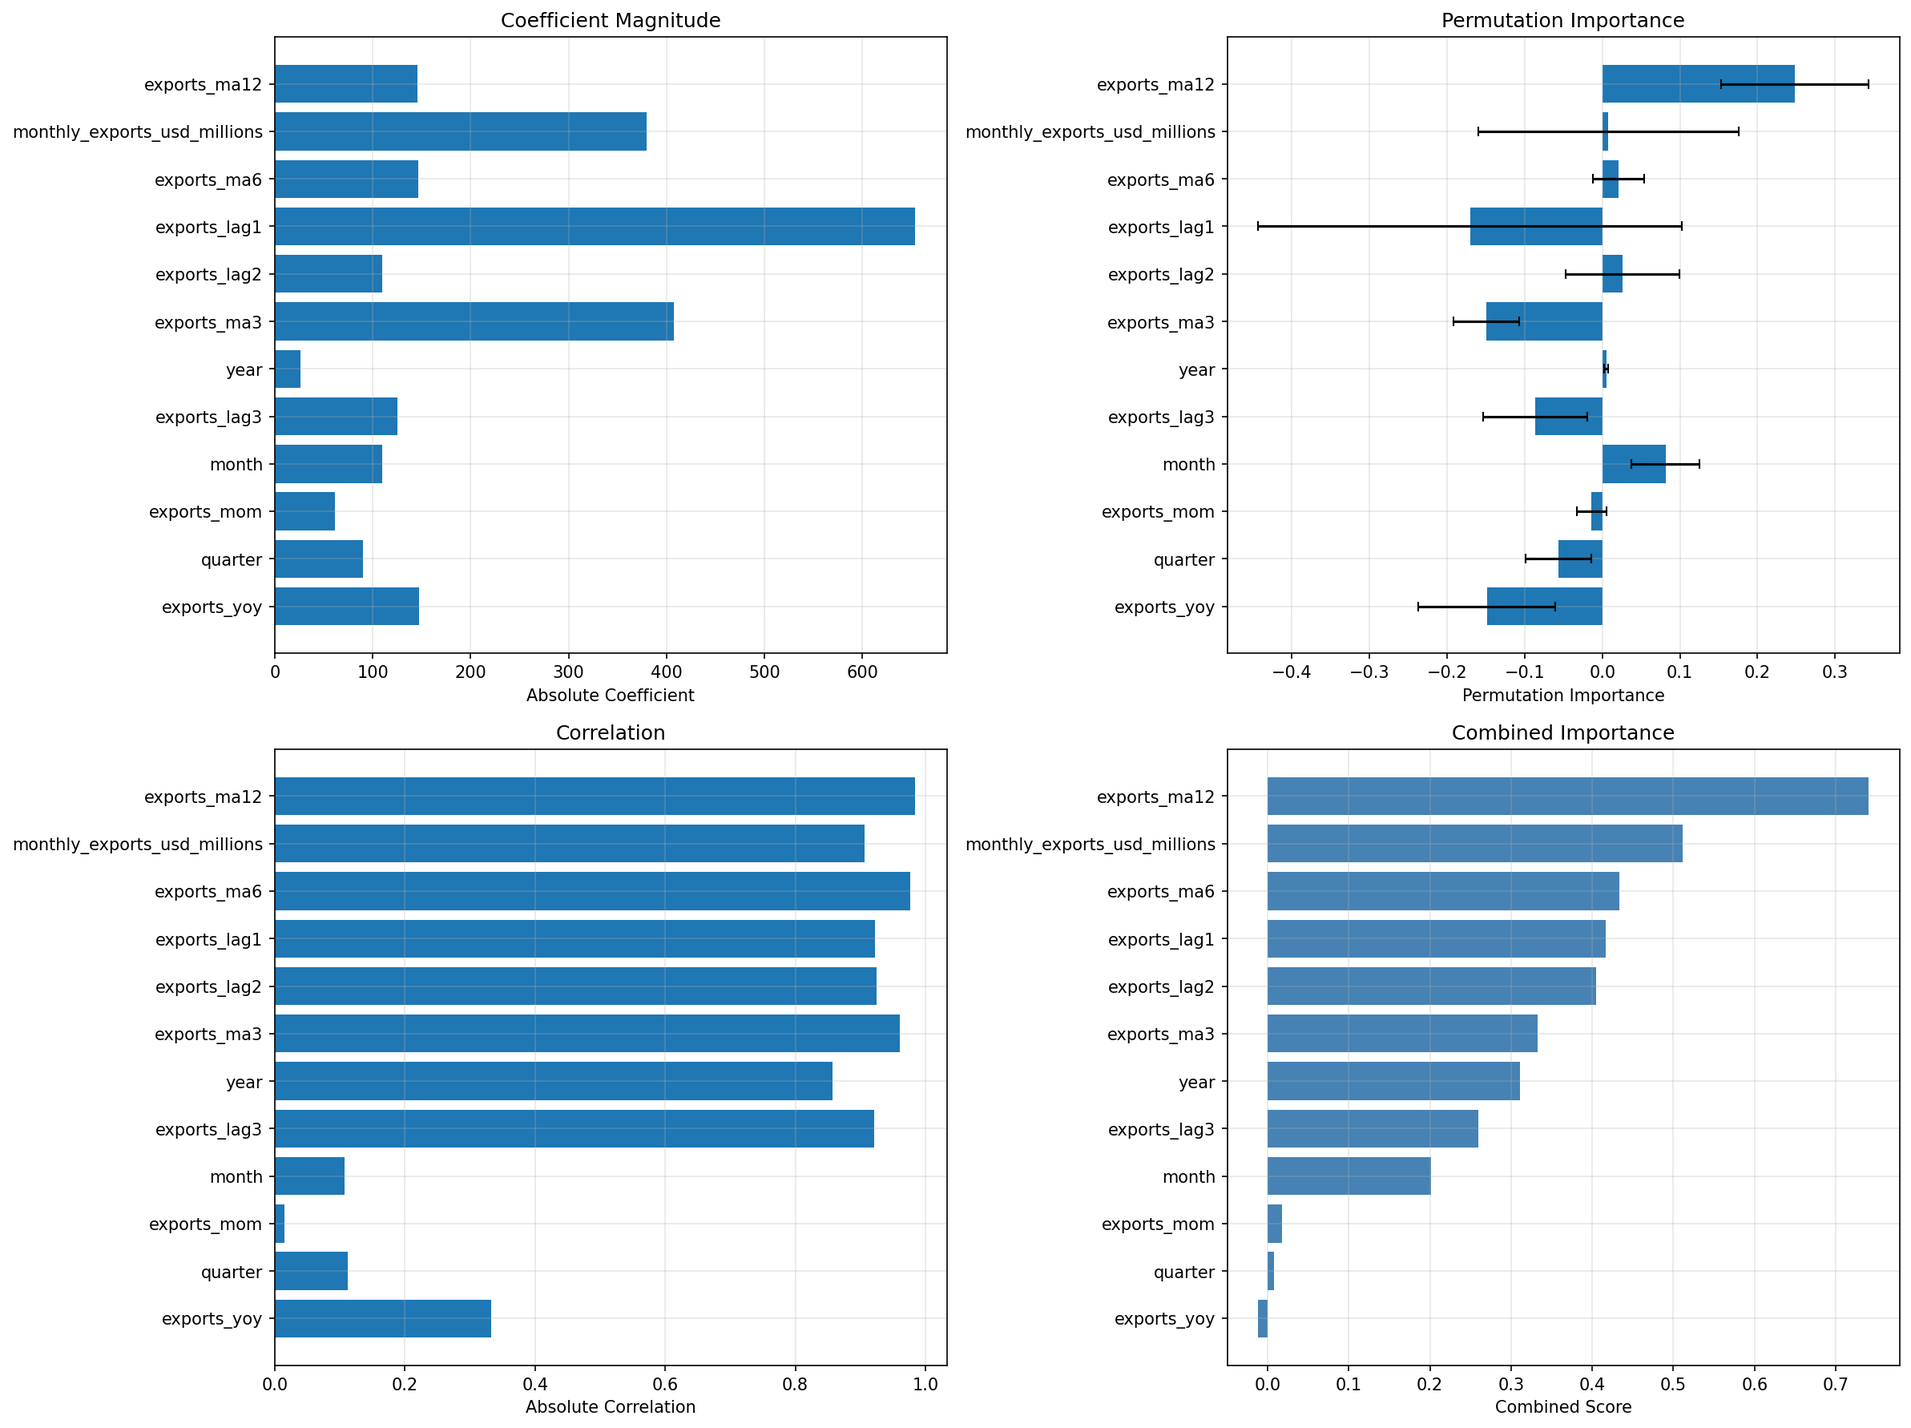
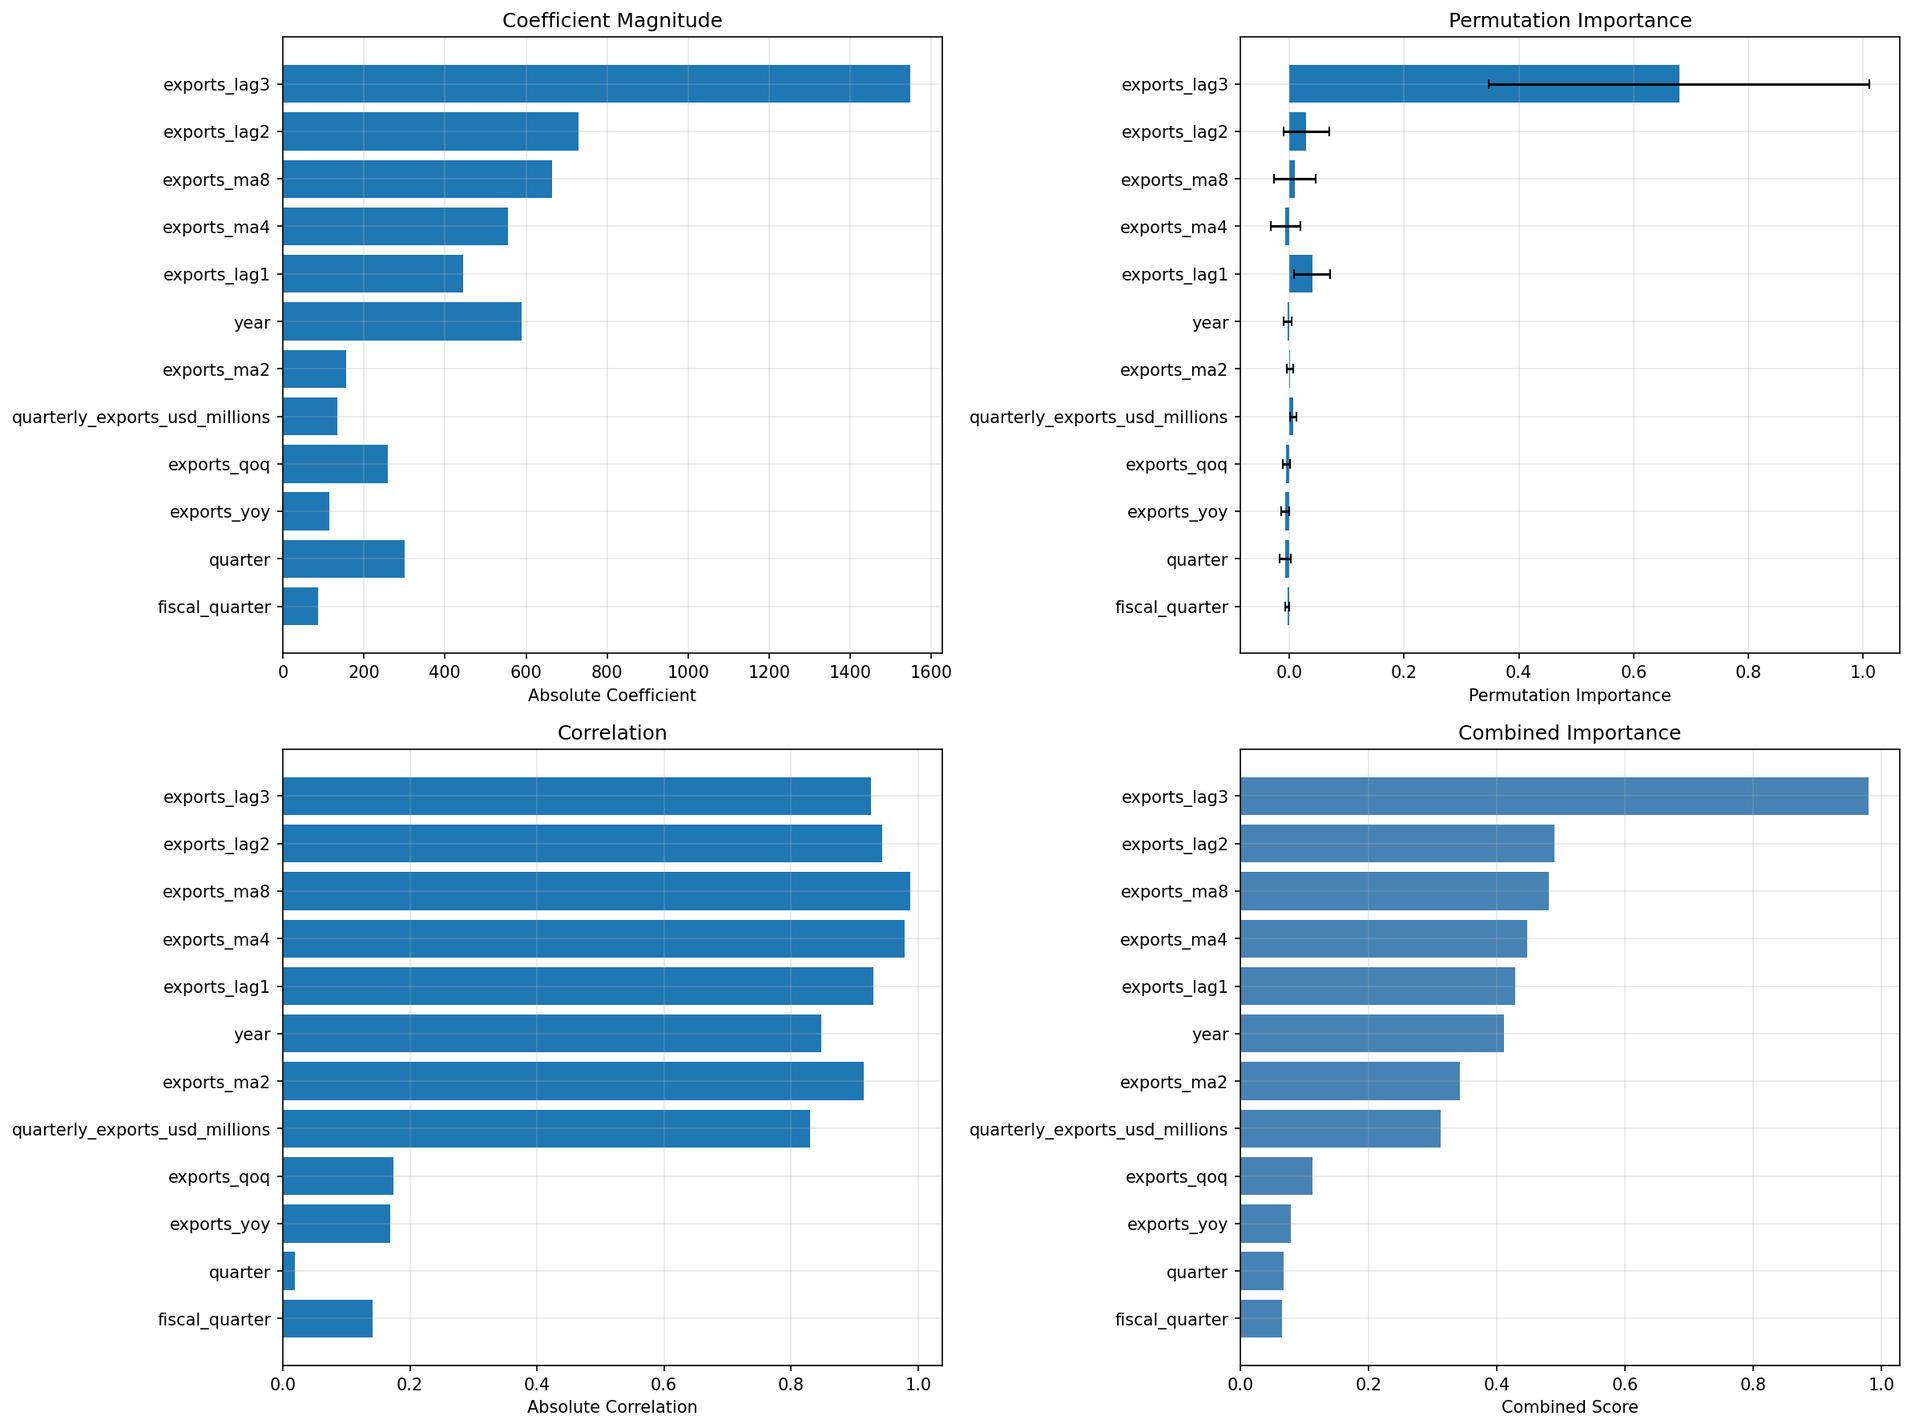
Change prediction target from monthly to quarterly Nvidia revenue
- Update process_nvidia_data.py to save quarterly data only (remove monthly conversion)
- Refactor predict_nvidia_revenue.py to predict quarterly revenue from monthly exports
- Add quarterly aggregation: sum monthly Taiwan exports into Nvidia fiscal quarters
- Update feature engineering for quarterly data (lag quarters, rolling averages over quarters)
- Update all variable names and messages to reflect quarterly prediction
- Independent variable: Taiwan monthly exports (aggregated to quarters)
- Dependent variable: Nvidia quarterly data center revenue

diff --git a/src/predict_nvidia_revenue.py b/src/predict_nvidia_revenue.py
@@ -1,4 +1,4 @@
-"""Predict Nvidia data center revenue using Taiwan exports data."""
+"""Predict Nvidia quarterly data center revenue using Taiwan monthly exports data."""
 
 import pandas as pd
 import numpy as np
@@ -27,39 +27,80 @@ def load_taiwan_exports():
     return df
 
 def fetch_nvidia_data():
-    """Load Nvidia data center revenue (monthly, converted from quarterly reports)."""
-    file_path = PROCESSED_DATA_DIR / "nvidia_data_center_revenue_monthly.csv"
+    """Load Nvidia data center revenue (quarterly)."""
+    file_path = PROCESSED_DATA_DIR / "nvidia_data_center_revenue_quarterly.csv"
     if not file_path.exists():
         print(f"Nvidia data not found: {file_path}. Run process_nvidia_data.py first.")
         return None
     df = pd.read_csv(file_path)
-    df['date'] = pd.to_datetime(df['date'])
-    return {'date': df['date'].values, 'data_center_revenue_millions': df['data_center_revenue_millions'].values}
+    df['quarter_end_date'] = pd.to_datetime(df['quarter_end_date'])
+    return df
 
-def create_features(df):
-    """Create time series features: lags, rolling averages, growth rates, and time indicators."""
-    df = df.copy().sort_values('date').reset_index(drop=True)
+def get_nvidia_quarter_for_month(date):
+    """Map a calendar month to Nvidia fiscal quarter end date.
     
-    # Lag features (previous months)
-    df['exports_lag1'] = df['monthly_exports_usd_millions'].shift(1)
-    df['exports_lag2'] = df['monthly_exports_usd_millions'].shift(2)
-    df['exports_lag3'] = df['monthly_exports_usd_millions'].shift(3)
+    Nvidia fiscal quarters:
+    - Q1: Feb, Mar, Apr -> ends in April
+    - Q2: May, Jun, Jul -> ends in July
+    - Q3: Aug, Sep, Oct -> ends in October
+    - Q4: Nov, Dec, Jan -> ends in January (next year)
+    """
+    month = date.month
+    year = date.year
     
-    # Rolling averages
-    df['exports_ma3'] = df['monthly_exports_usd_millions'].rolling(window=3).mean()
-    df['exports_ma6'] = df['monthly_exports_usd_millions'].rolling(window=6).mean()
-    df['exports_ma12'] = df['monthly_exports_usd_millions'].rolling(window=12).mean()
+    if month in [2, 3, 4]:
+        return pd.Timestamp(year=year, month=4, day=1)  # Q1 ends in Apr
+    elif month in [5, 6, 7]:
+        return pd.Timestamp(year=year, month=7, day=1)  # Q2 ends in Jul
+    elif month in [8, 9, 10]:
+        return pd.Timestamp(year=year, month=10, day=1)  # Q3 ends in Oct
+    elif month in [11, 12]:
+        return pd.Timestamp(year=year, month=1, day=1)  # Q4 ends in Jan (same fiscal year)
+    else:  # month == 1
+        return pd.Timestamp(year=year, month=1, day=1)  # Q4 ends in Jan (current year)
+
+def aggregate_to_quarters(taiwan_df):
+    """Aggregate monthly Taiwan exports to Nvidia fiscal quarters."""
+    taiwan_df = taiwan_df.copy()
     
-    # Growth rates
-    df['exports_yoy'] = df['monthly_exports_usd_millions'].pct_change(periods=12)
-    df['exports_mom'] = df['monthly_exports_usd_millions'].pct_change(periods=1)
+    # Map each month to its Nvidia fiscal quarter end date
+    taiwan_df['quarter_end_date'] = taiwan_df['date'].apply(get_nvidia_quarter_for_month)
+    
+    # Aggregate: sum monthly exports for each quarter
+    quarterly_exports = taiwan_df.groupby('quarter_end_date').agg({
+        'monthly_exports_usd_millions': 'sum',
+        'date': 'count'  # Count months per quarter (should be 3)
+    }).reset_index()
+    
+    quarterly_exports.columns = ['quarter_end_date', 'quarterly_exports_usd_millions', 'month_count']
+    
+    # Create features from quarterly aggregated data
+    quarterly_exports = quarterly_exports.sort_values('quarter_end_date').reset_index(drop=True)
+    
+    # Lag features (previous quarters)
+    quarterly_exports['exports_lag1'] = quarterly_exports['quarterly_exports_usd_millions'].shift(1)
+    quarterly_exports['exports_lag2'] = quarterly_exports['quarterly_exports_usd_millions'].shift(2)
+    quarterly_exports['exports_lag3'] = quarterly_exports['quarterly_exports_usd_millions'].shift(3)
+    
+    # Rolling averages (over quarters)
+    quarterly_exports['exports_ma2'] = quarterly_exports['quarterly_exports_usd_millions'].rolling(window=2).mean()
+    quarterly_exports['exports_ma4'] = quarterly_exports['quarterly_exports_usd_millions'].rolling(window=4).mean()
+    quarterly_exports['exports_ma8'] = quarterly_exports['quarterly_exports_usd_millions'].rolling(window=8).mean()
+    
+    # Year-over-year growth (4 quarters ago)
+    quarterly_exports['exports_yoy'] = quarterly_exports['quarterly_exports_usd_millions'].pct_change(periods=4)
+    
+    # Quarter-over-quarter growth
+    quarterly_exports['exports_qoq'] = quarterly_exports['quarterly_exports_usd_millions'].pct_change(periods=1)
     
     # Time-based features
-    df['year'] = df['date'].dt.year
-    df['month'] = df['date'].dt.month
-    df['quarter'] = df['date'].dt.quarter
+    quarterly_exports['year'] = quarterly_exports['quarter_end_date'].dt.year
+    quarterly_exports['quarter'] = quarterly_exports['quarter_end_date'].dt.quarter
+    quarterly_exports['fiscal_quarter'] = quarterly_exports['quarter_end_date'].apply(
+        lambda x: {1: 4, 4: 1, 7: 2, 10: 3}[x.month]
+    )
     
-    return df
+    return quarterly_exports
 
 def train_model(X_train, y_train, X_test, y_test, use_cv=True):
     """Train Ridge regression model with cross-validation for optimal regularization."""
@@ -189,9 +230,9 @@ def plot_train_test_comparison(train_dates, y_train, y_train_pred, test_dates, y
     axes[0].plot(test_dates, y_test, 'o-', label='Test Actual', alpha=0.7, color='red')
     axes[0].plot(test_dates, y_test_pred, 'x-', label='Test Predicted', alpha=0.7, color='salmon')
     axes[0].axvline(x=test_dates[0], color='gray', linestyle='--', linewidth=2)
-    axes[0].set_xlabel('Date')
+    axes[0].set_xlabel('Quarter End Date')
     axes[0].set_ylabel('Revenue (Millions USD)')
-    axes[0].set_title('Train vs Test Predictions')
+    axes[0].set_title('Train vs Test Predictions (Quarterly)')
     axes[0].legend()
     axes[0].grid(True, alpha=0.3)
     axes[0].tick_params(axis='x', rotation=45)
@@ -220,69 +261,65 @@ def plot_train_test_comparison(train_dates, y_train, y_train_pred, test_dates, y
     print(f"Diagnostic plot saved to {filepath}")
 
 def main(use_post_surge_only=False, surge_threshold_date='2023-01-01'):
-    """Main prediction pipeline."""
-    print("Nvidia Data Center Revenue Prediction")
+    """Main prediction pipeline: predict quarterly Nvidia revenue from monthly Taiwan exports."""
+    print("Nvidia Quarterly Data Center Revenue Prediction")
     print("=" * 60)
     
-    # Load and prepare Taiwan exports data
+    # Load Taiwan monthly exports data
     taiwan_df = load_taiwan_exports()
     print(f"Loaded {len(taiwan_df)} months of Taiwan exports data")
     
-    taiwan_df = create_features(taiwan_df)
-    taiwan_df = taiwan_df.dropna().reset_index(drop=True)
-    
-    feature_cols = [
-        'monthly_exports_usd_millions', 'exports_lag1', 'exports_lag2', 'exports_lag3',
-        'exports_ma3', 'exports_ma6', 'exports_ma12', 'exports_yoy', 'exports_mom',
-        'year', 'month', 'quarter'
-    ]
-    available_features = [col for col in feature_cols if col in taiwan_df.columns]
-    
-    print(f"Created {len(available_features)} features")
-    
-    # Load Nvidia revenue data
-    nvidia_data = fetch_nvidia_data()
-    if nvidia_data is None:
+    # Load Nvidia quarterly revenue data
+    nvidia_df = fetch_nvidia_data()
+    if nvidia_df is None:
         print("Nvidia data not available. Run process_nvidia_data.py first.")
         return
     
-    nvidia_df = pd.DataFrame(nvidia_data)
-    nvidia_df['date'] = pd.to_datetime(nvidia_df['date'])
+    print(f"Loaded {len(nvidia_df)} quarters of Nvidia revenue data")
+    print(f"Nvidia date range: {nvidia_df['quarter_end_date'].min().date()} to {nvidia_df['quarter_end_date'].max().date()}")
     
-    # Filter Taiwan data to match Nvidia date range
-    first_nvidia_date = nvidia_df['date'].min()
-    last_nvidia_date = nvidia_df['date'].max()
+    # Aggregate monthly Taiwan exports to Nvidia fiscal quarters
+    print("\nAggregating monthly exports to quarterly...")
+    quarterly_exports = aggregate_to_quarters(taiwan_df)
+    quarterly_exports = quarterly_exports.dropna().reset_index(drop=True)
     
-    taiwan_df_filtered = taiwan_df[
-        (taiwan_df['date'] >= first_nvidia_date) & 
-        (taiwan_df['date'] <= last_nvidia_date)
-    ].copy()
+    print(f"Aggregated to {len(quarterly_exports)} quarters")
     
-    # Recreate features on filtered data (ensures proper lag calculations)
-    taiwan_df_filtered = create_features(taiwan_df_filtered)
-    taiwan_df_filtered = taiwan_df_filtered.dropna().reset_index(drop=True)
-    
-    # Merge datasets on date
-    merged_df = pd.merge(taiwan_df_filtered, nvidia_df, on='date', how='inner')
-    merged_df = merged_df.sort_values('date').reset_index(drop=True)
+    # Merge quarterly exports with Nvidia revenue on quarter end date
+    merged_df = pd.merge(
+        quarterly_exports,
+        nvidia_df[['quarter_end_date', 'quarterly_revenue_millions']],
+        on='quarter_end_date',
+        how='inner'
+    )
+    merged_df = merged_df.sort_values('quarter_end_date').reset_index(drop=True)
     
     if len(merged_df) == 0:
-        print("No overlapping dates found")
+        print("No overlapping quarters found")
         return
     
-    print(f"Merged dataset: {len(merged_df)} months")
-    print(f"Date range: {merged_df['date'].min().date()} to {merged_df['date'].max().date()}")
+    print(f"Merged dataset: {len(merged_df)} quarters")
+    print(f"Date range: {merged_df['quarter_end_date'].min().date()} to {merged_df['quarter_end_date'].max().date()}")
     
     # Optional: filter to post-surge period only (2023+)
     surge_threshold = pd.Timestamp(surge_threshold_date)
     if use_post_surge_only:
-        merged_df = merged_df[merged_df['date'] >= surge_threshold].reset_index(drop=True)
-        print(f"Filtered to post-surge: {len(merged_df)} months")
+        merged_df = merged_df[merged_df['quarter_end_date'] >= surge_threshold].reset_index(drop=True)
+        print(f"Filtered to post-surge: {len(merged_df)} quarters")
     
     # Prepare features and target
-    y = merged_df['data_center_revenue_millions'].values
+    feature_cols = [
+        'quarterly_exports_usd_millions', 'exports_lag1', 'exports_lag2', 'exports_lag3',
+        'exports_ma2', 'exports_ma4', 'exports_ma8', 'exports_yoy', 'exports_qoq',
+        'year', 'quarter', 'fiscal_quarter'
+    ]
+    available_features = [col for col in feature_cols if col in merged_df.columns]
+    
+    y = merged_df['quarterly_revenue_millions'].values
     X_merged = merged_df[available_features].fillna(0)
-    dates = merged_df['date'].values
+    dates = merged_df['quarter_end_date'].values
+    
+    print(f"\nUsing {len(available_features)} features: {', '.join(available_features)}")
     
     # Time-based split: 80% train, 20% test (chronological)
     split_idx = int(len(merged_df) * 0.8)
@@ -293,8 +330,8 @@ def main(use_post_surge_only=False, surge_threshold_date='2023-01-01'):
     train_dates = dates[:split_idx]
     test_dates = dates[split_idx:]
     
-    print(f"\nTrain: {len(X_train)} samples ({train_dates[0]} to {train_dates[-1]})")
-    print(f"Test: {len(X_test)} samples ({test_dates[0]} to {test_dates[-1]})")
+    print(f"\nTrain: {len(X_train)} quarters ({train_dates[0]} to {train_dates[-1]})")
+    print(f"Test: {len(X_test)} quarters ({test_dates[0]} to {test_dates[-1]})")
     
     # Train model
     print("\nTraining model...")
@@ -355,15 +392,15 @@ def main(use_post_surge_only=False, surge_threshold_date='2023-01-01'):
     }, model_path)
     print(f"\nModel saved to: {model_path}")
     
-    # Generate predictions for recent months
-    recent_data = taiwan_df_filtered.tail(12)
-    X_recent = recent_data[available_features].fillna(0)
+    # Generate predictions for recent quarters
+    recent_quarters = quarterly_exports.tail(8)  # Last 8 quarters (2 years)
+    X_recent = recent_quarters[available_features].fillna(0)
     X_recent_scaled = metrics['scaler'].transform(X_recent)
     predictions = model.predict(X_recent_scaled)
     
     predictions_df = pd.DataFrame({
-        'date': recent_data['date'].values,
-        'taiwan_exports_millions': recent_data['monthly_exports_usd_millions'].values,
+        'quarter_end_date': recent_quarters['quarter_end_date'].values,
+        'quarterly_exports_millions': recent_quarters['quarterly_exports_usd_millions'].values,
         'predicted_nvidia_revenue_millions': predictions
     })
     

diff --git a/src/process_nvidia_data.py b/src/process_nvidia_data.py
@@ -1,4 +1,4 @@
-"""Process Nvidia quarterly data center revenue and convert to monthly data."""
+"""Process Nvidia quarterly data center revenue data."""
 
 import pandas as pd
 from pathlib import Path
@@ -16,38 +16,22 @@ def parse_value(value_str):
         num = float(value_str)
         return num * 1000 if num > 10 else num
 
-def get_quarter_months(date):
+def get_quarter_end_date(date):
+    """Convert report date to quarter end date based on Nvidia's fiscal calendar."""
     month = date.month
     
-    if month == 1:
-        months = [11, 12, 1]
-    elif month in [4, 5]:
-        months = [2, 3, 4]
-    elif month in [7, 8]:
-        months = [5, 6, 7]
-    elif month == 10:
-        months = [8, 9, 10]
+    # Nvidia fiscal quarters end in: Jan (Q4), Apr (Q1), Jul (Q2), Oct (Q3)
+    if month in [1, 2, 3]:
+        return pd.Timestamp(year=date.year, month=1, day=1)  # Q4 ends in Jan
+    elif month in [4, 5, 6]:
+        return pd.Timestamp(year=date.year, month=4, day=1)  # Q1 ends in Apr
+    elif month in [7, 8, 9]:
+        return pd.Timestamp(year=date.year, month=7, day=1)  # Q2 ends in Jul
     else:
-        if month <= 3:
-            months = [11, 12, 1]
-        elif month <= 6:
-            months = [2, 3, 4]
-        elif month <= 9:
-            months = [5, 6, 7]
-        else:
-            months = [8, 9, 10]
-    
-    quarter_dates = []
-    for m in months:
-        if m in [11, 12]:
-            year = date.year - 1
-        else:
-            year = date.year
-        quarter_dates.append(pd.Timestamp(year=year, month=m, day=1))
-    
-    return quarter_dates
+        return pd.Timestamp(year=date.year, month=10, day=1)  # Q3 ends in Oct
 
 def process_nvidia_quarterly_data():
+    """Process and save Nvidia quarterly revenue data."""
     quarterly_data = [
         ("October 26, 2025", "51.22B"),
         ("July 27, 2025", "41.10B"),
@@ -82,51 +66,38 @@ def process_nvidia_quarterly_data():
     
     for date_str, value_str in quarterly_data:
         date = pd.to_datetime(date_str)
-        quarter_key = (date.year, date.month)
+        quarter_end = get_quarter_end_date(date)
+        quarter_key = (quarter_end.year, quarter_end.month)
         
         if quarter_key in seen_quarters:
             continue
         seen_quarters.add(quarter_key)
         
         parsed_data.append({
-            'quarter_end_date': date,
+            'quarter_end_date': quarter_end,
             'quarterly_revenue_millions': parse_value(value_str)
         })
     
     df_quarterly = pd.DataFrame(parsed_data)
     df_quarterly = df_quarterly.sort_values('quarter_end_date').reset_index(drop=True)
     
+    # Add fiscal quarter labels
+    df_quarterly['fiscal_year'] = df_quarterly['quarter_end_date'].apply(
+        lambda x: x.year if x.month != 1 else x.year - 1
+    )
+    df_quarterly['fiscal_quarter'] = df_quarterly['quarter_end_date'].apply(
+        lambda x: {1: 4, 4: 1, 7: 2, 10: 3}[x.month]
+    )
+    
     print(f"Processing {len(df_quarterly)} quarters")
     print(f"Date range: {df_quarterly['quarter_end_date'].min()} to {df_quarterly['quarter_end_date'].max()}")
     
-    monthly_data = []
-    for _, row in df_quarterly.iterrows():
-        monthly_revenue = row['quarterly_revenue_millions'] / 3.0
-        quarter_months = get_quarter_months(row['quarter_end_date'])
-        
-        for month_date in quarter_months:
-            monthly_data.append({
-                'date': month_date,
-                'data_center_revenue_millions': monthly_revenue
-            })
-    
-    df_monthly = pd.DataFrame(monthly_data)
-    df_monthly = df_monthly.sort_values('date').reset_index(drop=True)
-    df_monthly = df_monthly.drop_duplicates(subset=['date'], keep='first')
-    
-    df_final = df_monthly[['date', 'data_center_revenue_millions']].copy()
-    
-    print(f"Generated {len(df_final)} monthly records")
-    
     PROCESSED_DATA_DIR.mkdir(parents=True, exist_ok=True)
-    output_file = PROCESSED_DATA_DIR / "nvidia_data_center_revenue_monthly.csv"
-    df_final.to_csv(output_file, index=False)
+    output_file = PROCESSED_DATA_DIR / "nvidia_data_center_revenue_quarterly.csv"
+    df_quarterly.to_csv(output_file, index=False)
     print(f"Saved to: {output_file}")
     
-    quarterly_output = PROCESSED_DATA_DIR / "nvidia_data_center_revenue_quarterly.csv"
-    df_quarterly.to_csv(quarterly_output, index=False)
-    
-    return df_final
+    return df_quarterly
 
 if __name__ == "__main__":
     process_nvidia_quarterly_data()
